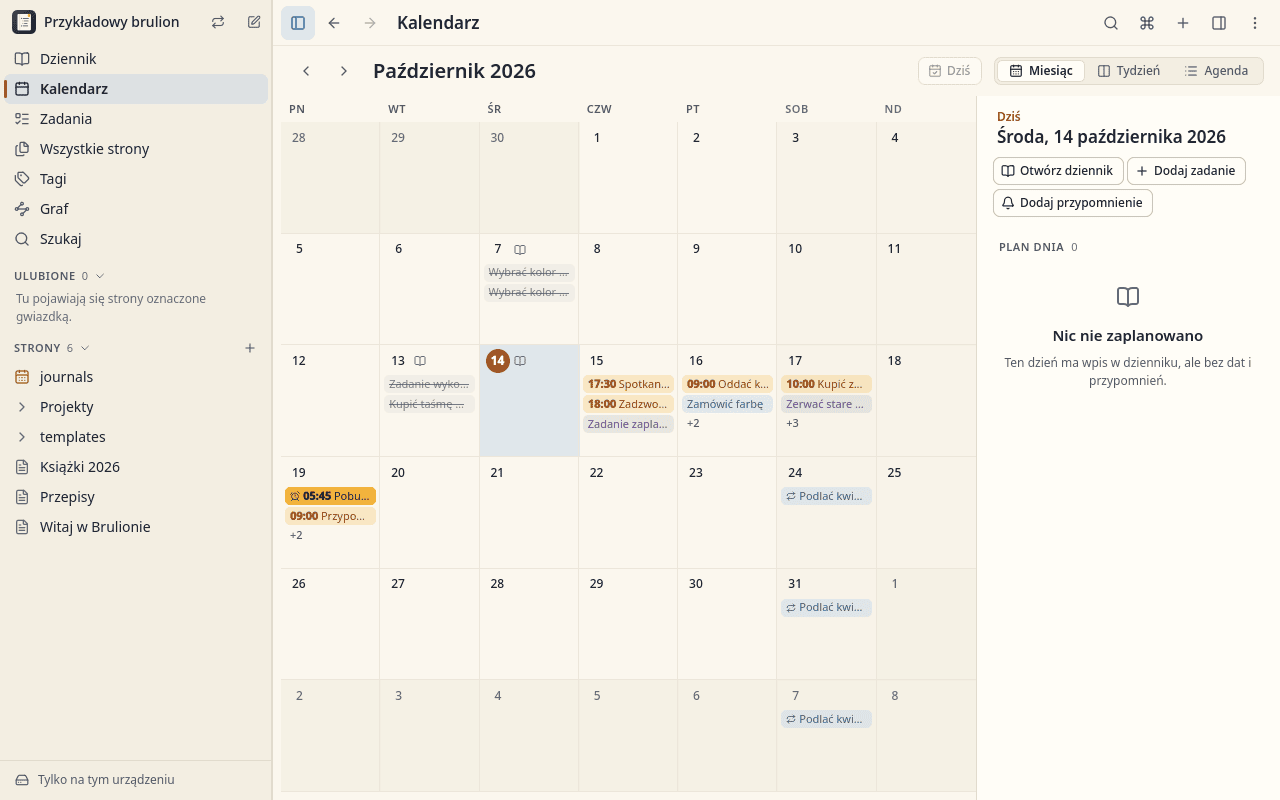
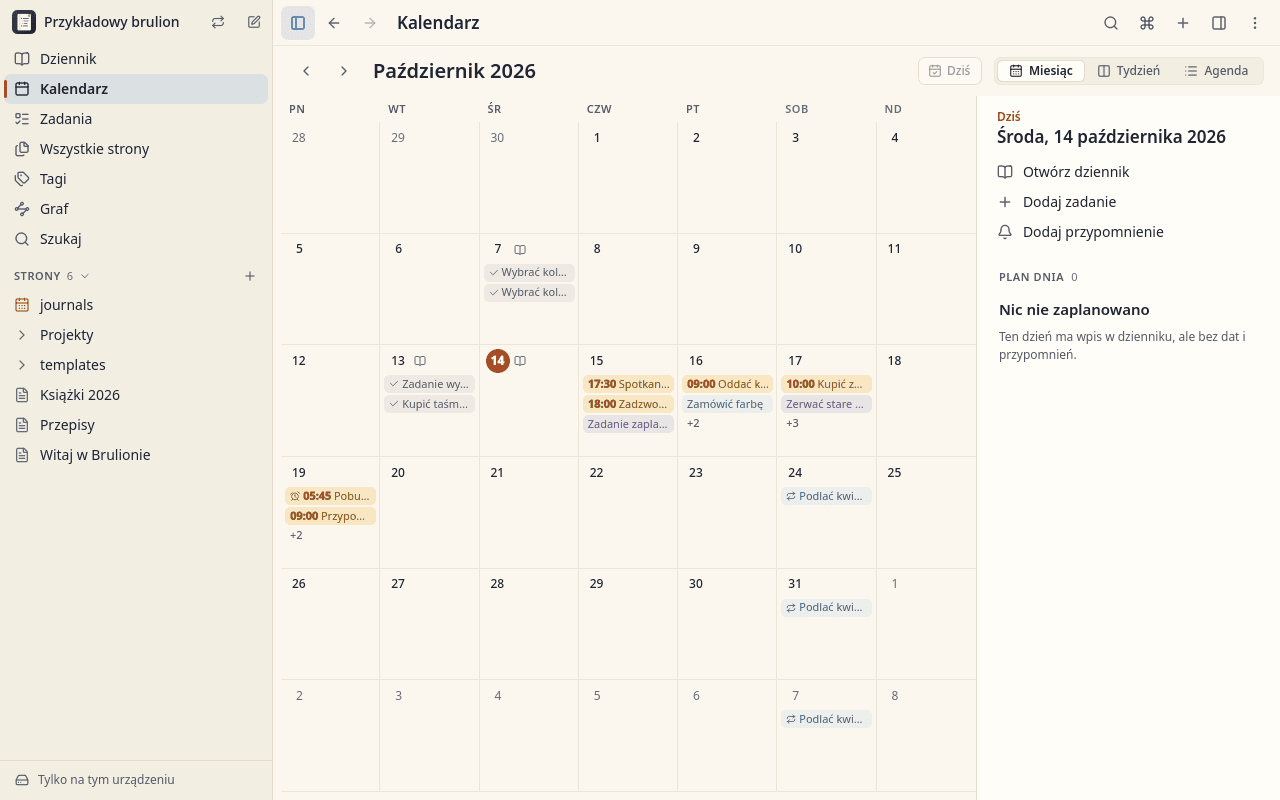
README pictures after the UI loop
Every picture in docs/images/ taken anew with the screenshot scripts (docs/UI.md "README
pictures": the same shots, sizes and themes; the sync picture without the Nextcloud account),
pngquant + oxipng, each 19–50 KB as before. They showed the look before 0.5.1: ☰ and the floating
"+" on the phone, the empty "Ulubione 0" block, square tag and date tints, the calc block in
monospace, tinted weekend and other-month cells. The phone journal's alt text names the bottom
bar's items, the calendar's its checked entries and the day panel.

diff --git a/README.md b/README.md
@@ -30,7 +30,7 @@
       <br><sub><b>Strona i odnośniki</b> — tabela z formułami, blok obliczeń, a z boku wszystko, co linkuje do strony</sub>
     </td>
     <td width="50%" valign="top">
-      <img src="docs/images/kalendarz.png" alt="Kalendarz miesięczny z zadaniami, terminami, przypomnieniami i alarmem oraz planem wybranego dnia">
+      <img src="docs/images/kalendarz.png" alt="Kalendarz miesięczny z zadaniami, terminami, przypomnieniami i alarmem, ukończone wpisy z ptaszkiem, a obok panel wybranego dnia z jego przyciskami">
       <br><sub><b>Kalendarz</b> — miesiąc, tydzień albo agenda: terminy, przypomnienia, alarmy i zadania cykliczne</sub>
     </td>
   </tr>
@@ -63,7 +63,7 @@
 </table>
 
 <p align="center">
-  <img src="docs/images/telefon-dziennik.png" width="270" alt="Dziennik na telefonie z dolnym paskiem nawigacji i przyciskiem szybkiej notatki">
+  <img src="docs/images/telefon-dziennik.png" width="270" alt="Dziennik na telefonie z dolnym paskiem nawigacji: Dziennik, Kalendarz, Szukaj, Zadania, + Notatka i Menu">
   &nbsp;&nbsp;&nbsp;
   <img src="docs/images/telefon-edycja-ciemny.png" width="270" alt="Edycja strony na telefonie w ciemnym motywie z paskiem narzędzi tuż nad klawiaturą">
   &nbsp;&nbsp;&nbsp;
